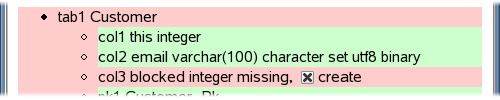
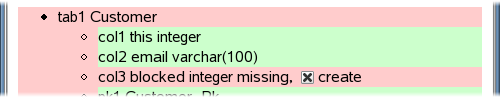
remove character set utf8 binary from example, was just a distraction
git-svn-id: https://svn.exedio.com/cope/trunk/persistence@7825 e7d4fc99-c606-0410-b9bf-843393a9eab7

Changed region(s): [[0.51, 0.51, 0.84, 0.66]]

diff --git a/screenshot/schema/schema2.html b/screenshot/schema/schema2.html
@@ -65,7 +65,7 @@ supports right outer joins: <i>yes</i>
 			</li>
 			<li class="ok">
 				<small>col2</small> email
-				<small>varchar(100) character set utf8 binary</small>
+				<small>varchar(100)</small>
 			</li>
 			<li class="ok">
 				<small>pk1</small> Customer_Pk

diff --git a/screenshot/schema/schema4.html b/screenshot/schema/schema4.html
@@ -65,7 +65,7 @@ supports right outer joins: <i>yes</i>
 			</li>
 			<li class="ok">
 				<small>col2</small> email
-				<small>varchar(100) character set utf8 binary</small>
+				<small>varchar(100)</small>
 			</li>
 			<li class="error">
 				<small>col3</small> blocked

diff --git a/screenshot/schema/schema5.html b/screenshot/schema/schema5.html
@@ -71,7 +71,7 @@ supports right outer joins: <i>yes</i>
 			</li>
 			<li class="ok">
 				<small>col2</small> email
-				<small>varchar(100) character set utf8 binary</small>
+				<small>varchar(100)</small>
 			</li>
 			<li class="ok">
 				<small>col3</small> blocked
